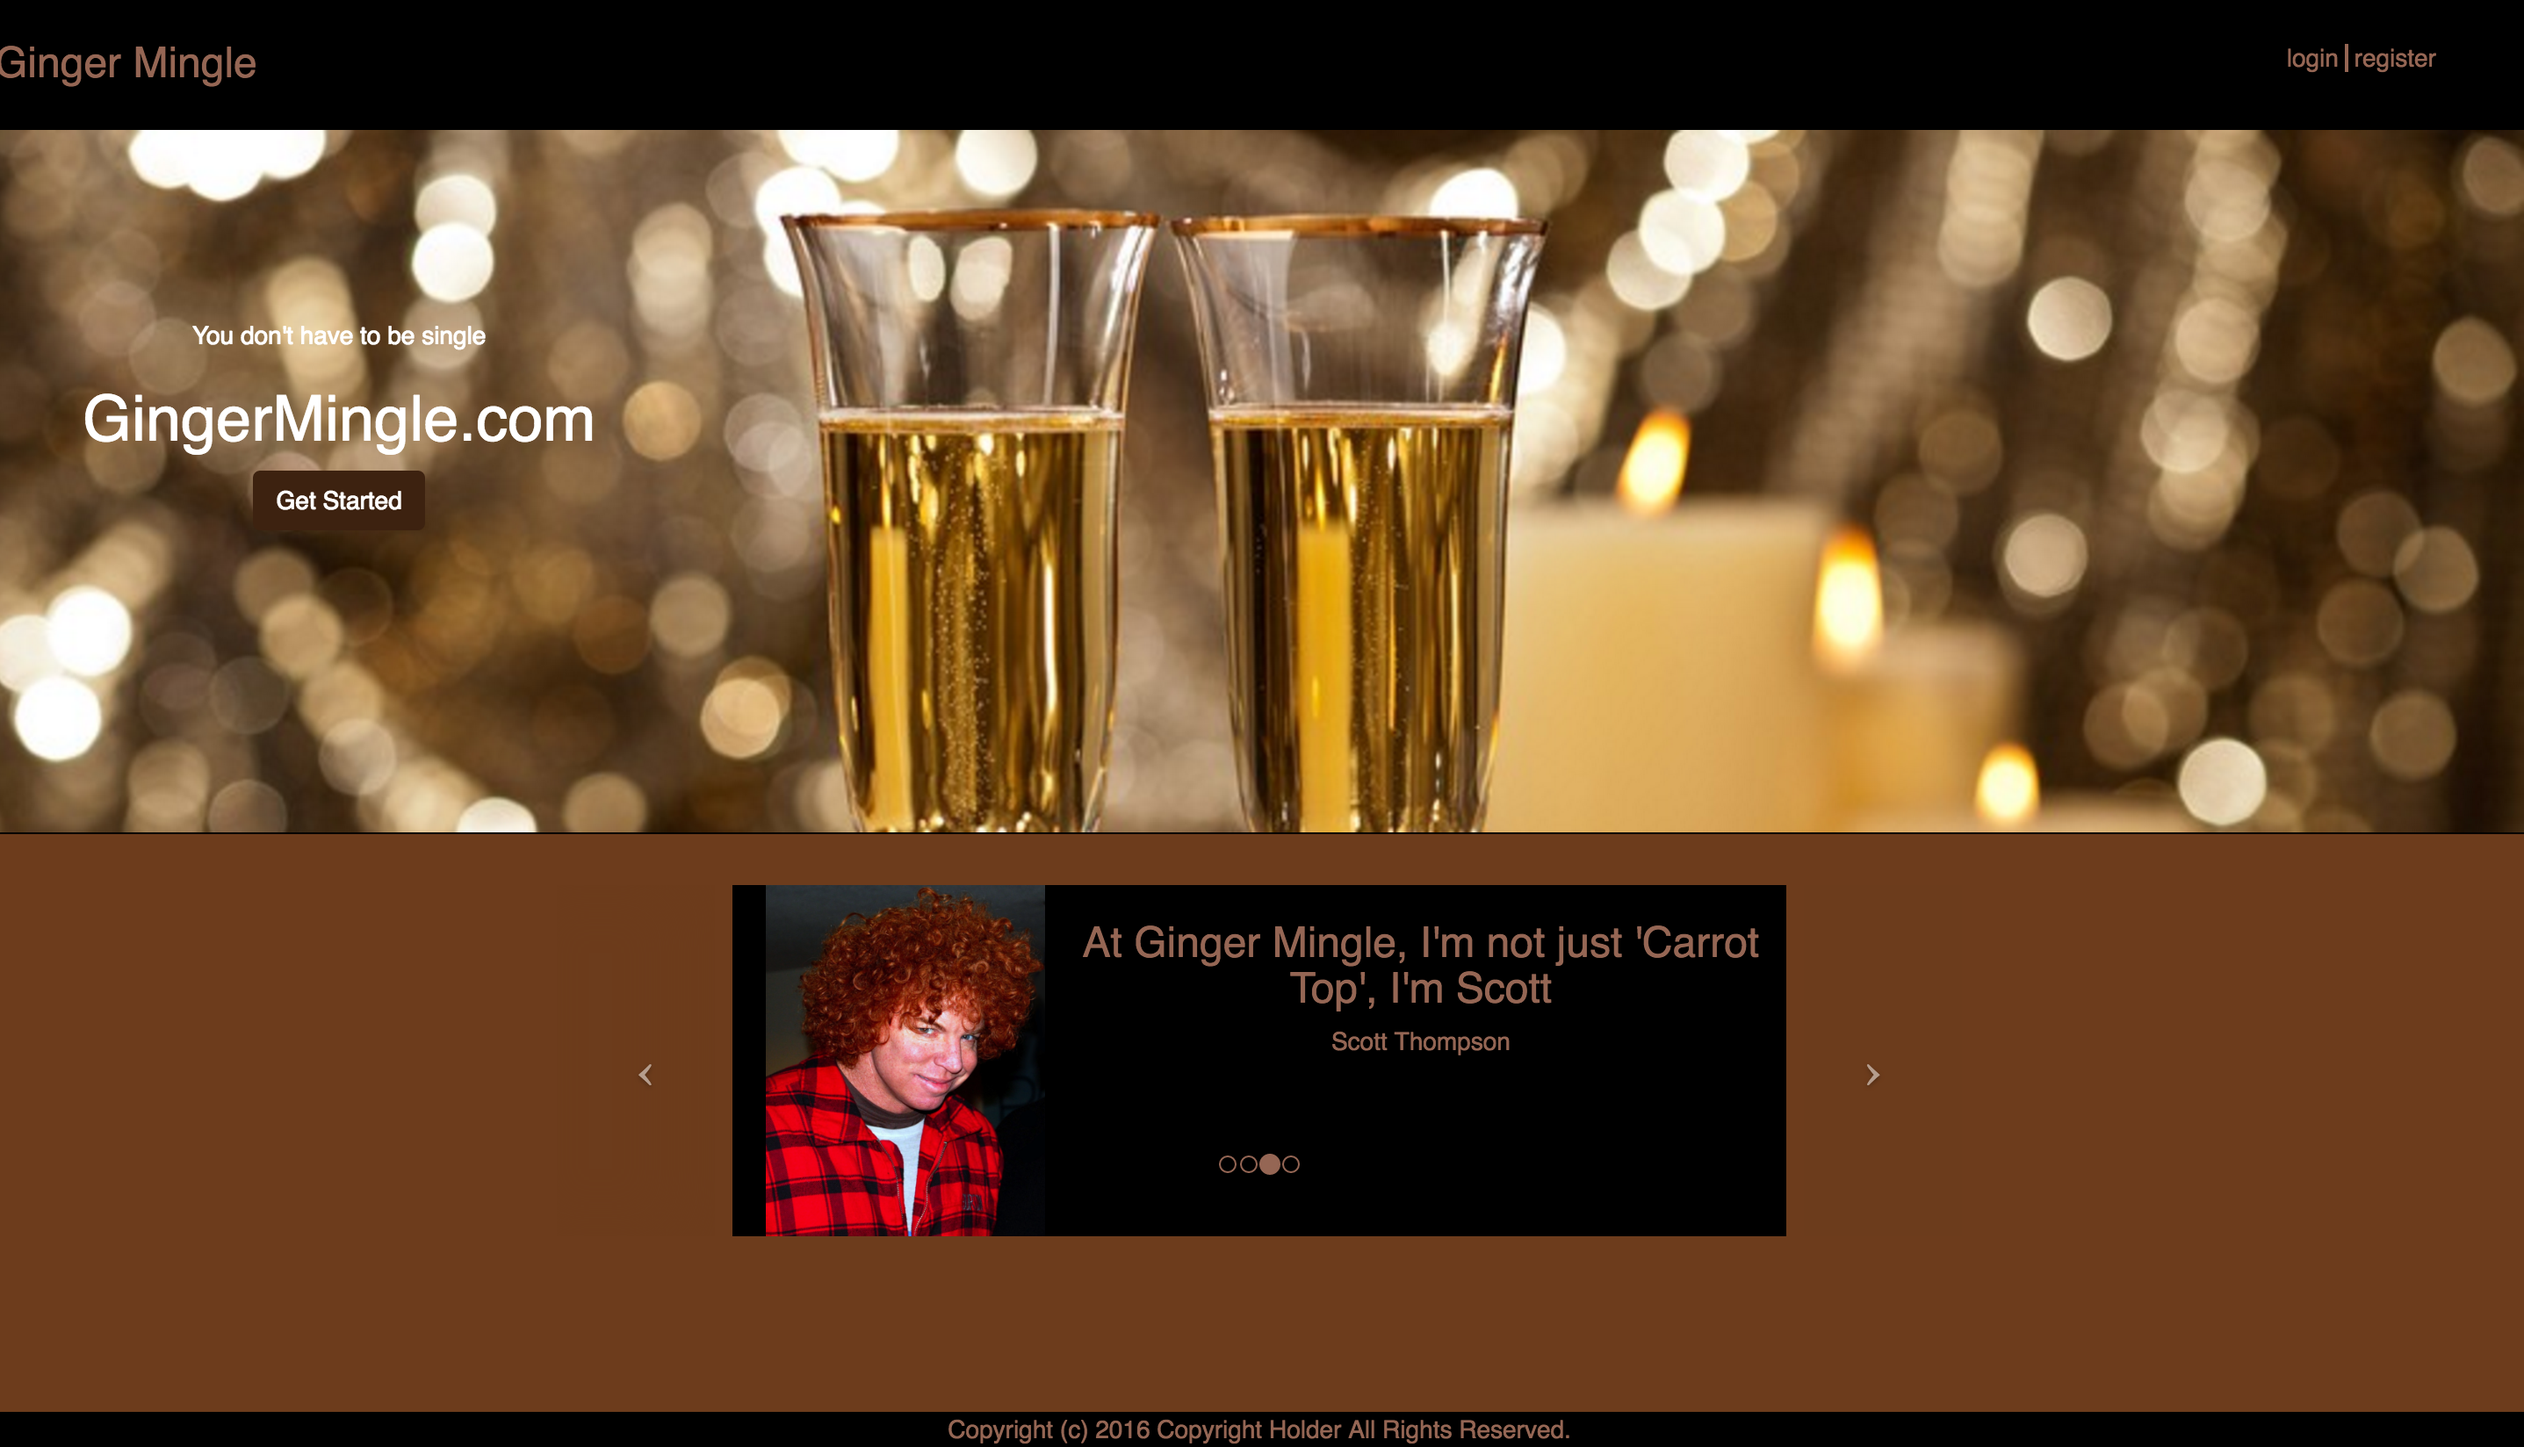
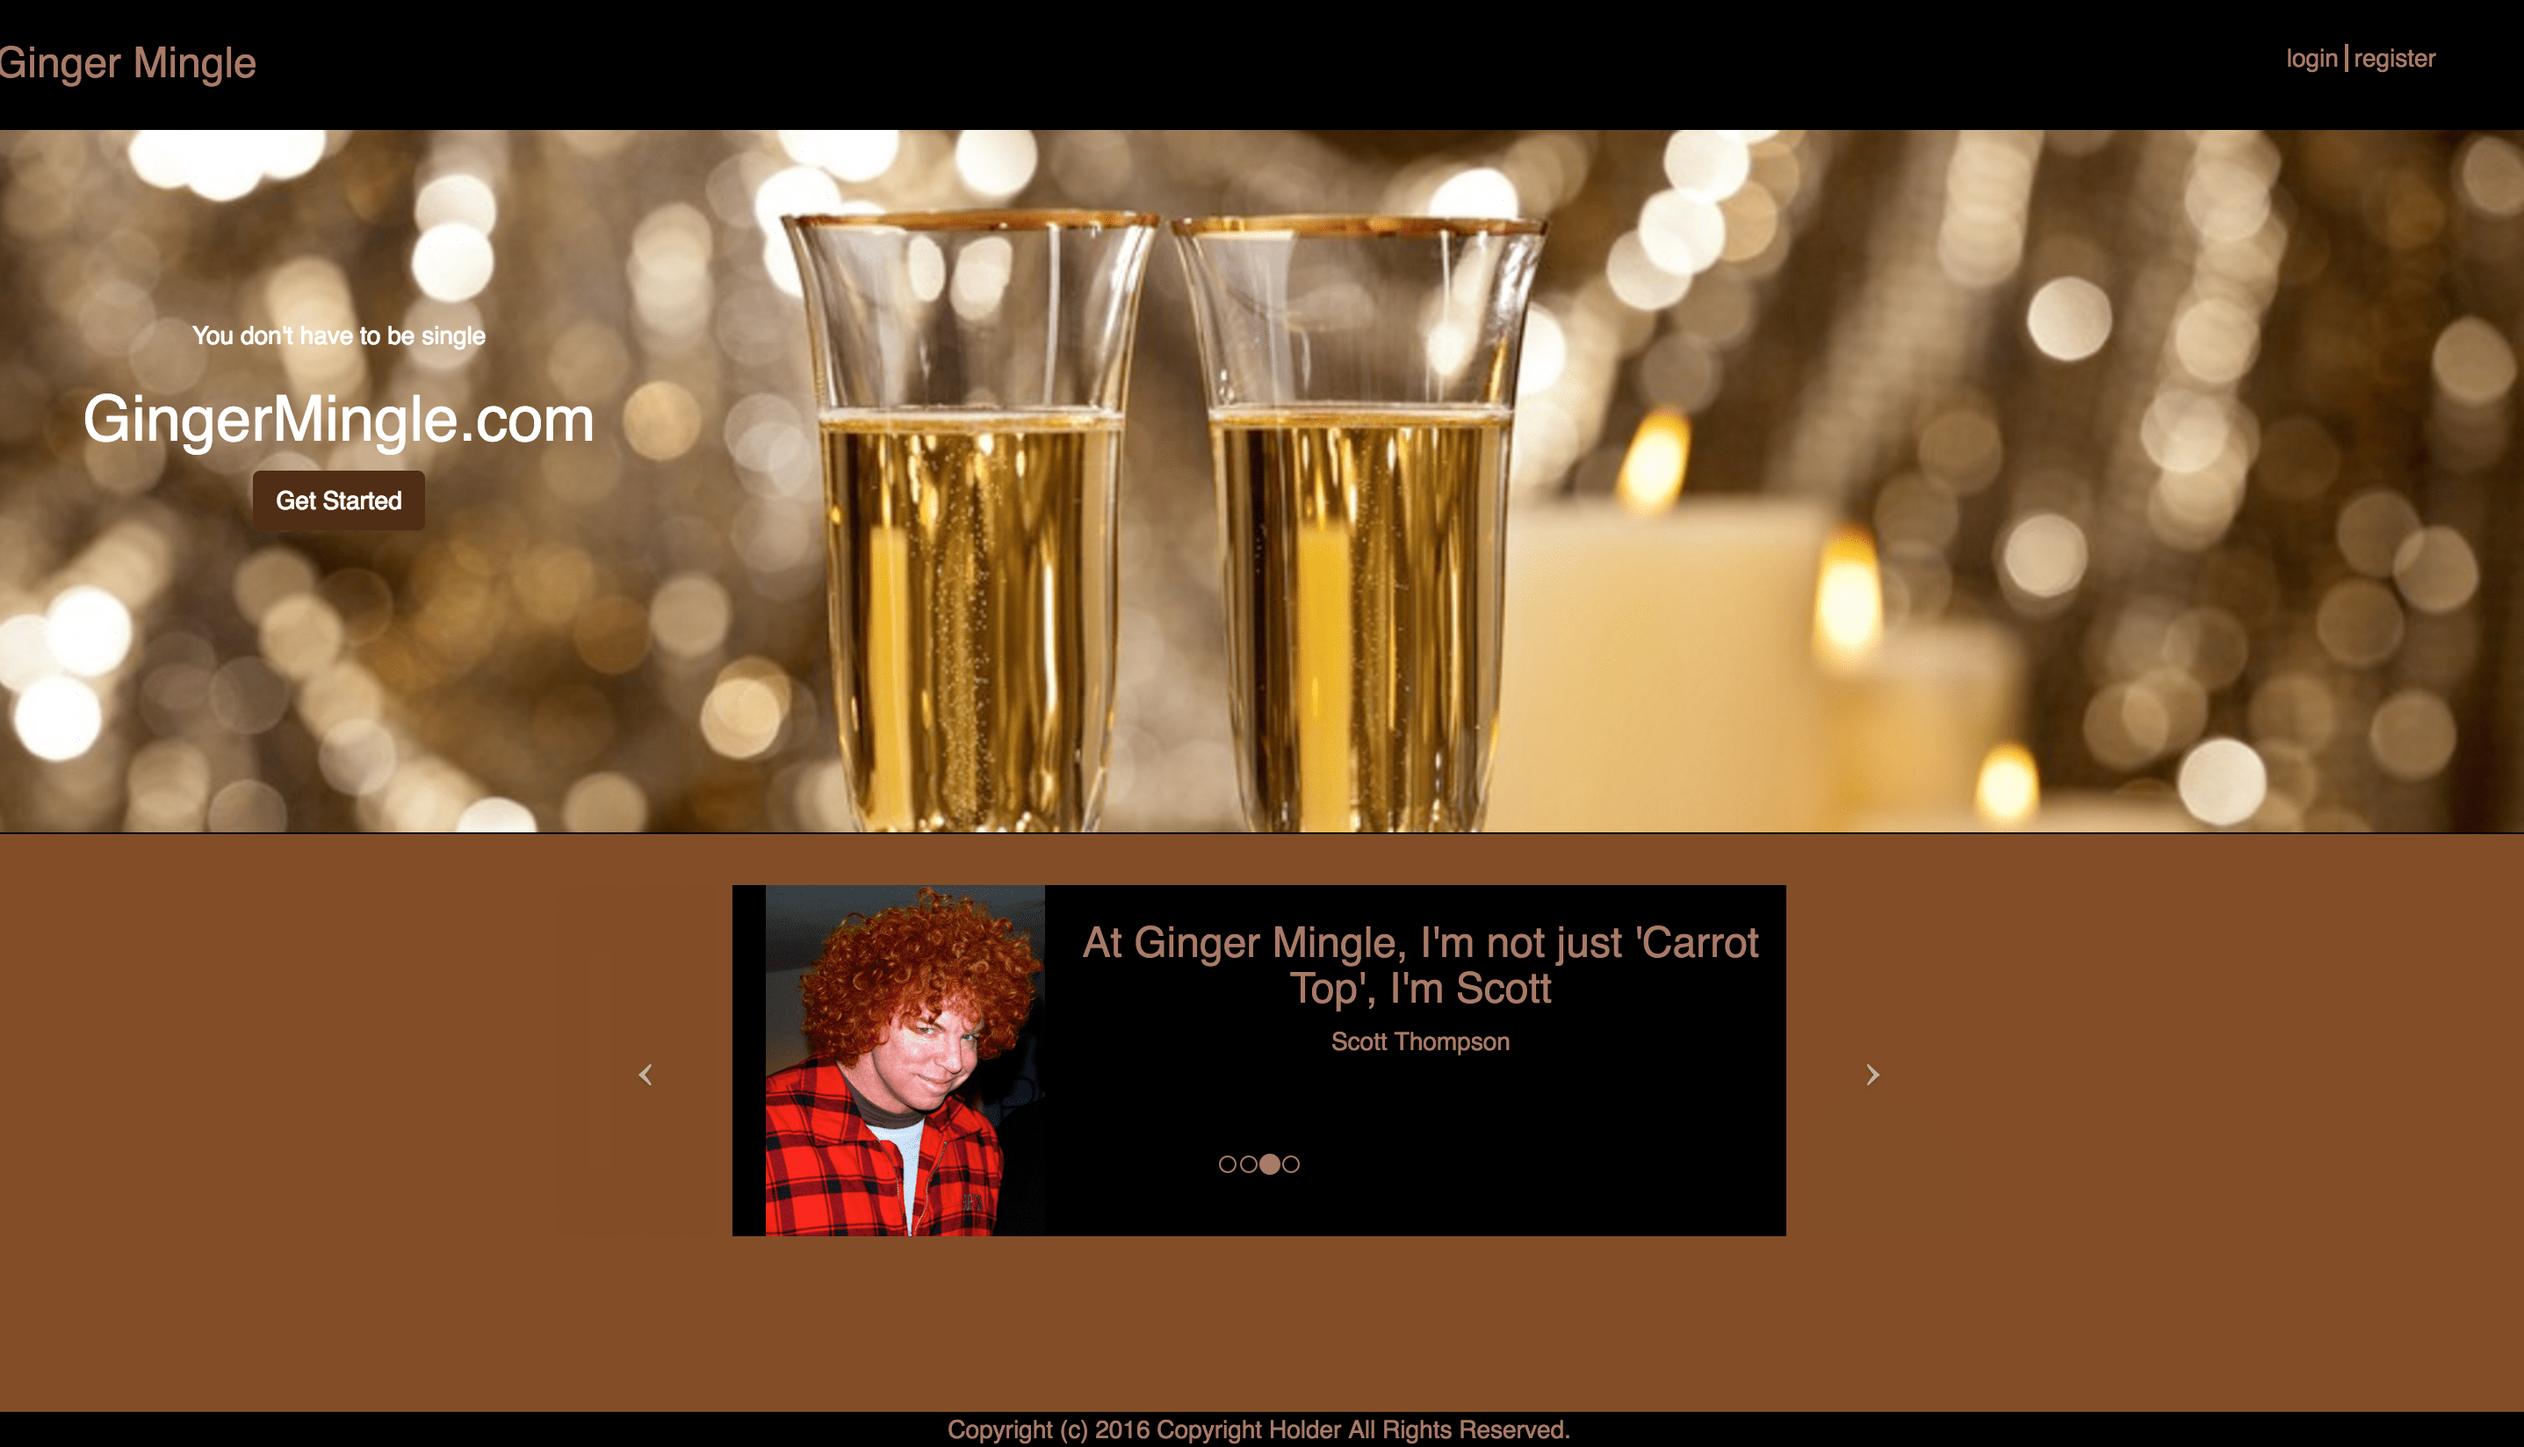
added a some simple features from when portfolio items are clicked on. I also optomized the images and updated the readme.

diff --git a/src/components/Portfolio.js b/src/components/Portfolio.js
@@ -6,38 +6,57 @@ import allAngular from '../imgs/allangular.png'
 import codeRoadTrip from '../imgs/codeRoadTrip.png'
 import gingerMingle from '../imgs/gingerMingle.png'
 import paintedWithFire from '../imgs/paintedWithFire.png'
+import gitUp from '../imgs/gitup.png'
 import Panel from './Panel'
 import './Portfolio.css'
 
 const imgArray=[
   {image: codeRoadTrip,
     title:'Code Road Trip',
-    description:'a group project'
+    description:'A fullstack React app designed as a blog for my roadtrip in the fall of 2016',
+    github: 'https://github.com/eparkhurst/CodeRoadTrip',
+    link: 'https://coderoadtrip.firebaseapp.com/'
   },
   {image: gingerMingle,
     title:'Ginger Mingle',
-    description:'a group project'
+    description:'A fake dating site built in AngularJS',
+    github: 'https://github.com/eparkhurst/GingerMingle',
   },
   {image: paintedWithFire,
     title:'Painted with Fire',
-    description:'a group project'
+    description:'A static site built for the Artist Guild "Painted with Fire"',
+    github: 'https://github.com/eparkhurst/paintedWithFire',
+    link: 'https://paintedwithfire.xyz'
   },
   {image: brewsBrothers,
     title:'Brews Brothers',
-    description:'a group project'
+    description:'A group project which uses a Raspberry Pi to control a refrigerator for beer brewing',
+    github: 'https://github.com/brews-brothers',
+    link: 'https://brewsbrotherschillerfrontend.firebaseapp.com/'
   },
   {image: moviePicker,
     title:'Movie Picker',
-    description:'a group project'
+    description:'A game to pick the imdb rank of movies. This was my first project',
+    github: 'https://github.com/eparkhurst/Movie-Picker',
+    link: 'https://intense-heat-9278.firebaseapp.com/'
   },
   {image: trackPath,
     title:'TrackPath',
-    description:'a group project'
+    description:'An Android native app written in java. The app tracks the users location and displays it on a map',
+    github: 'https://github.com/eparkhurst/Track-Path',
   },
   {image: allAngular,
     title:'All Angular',
-    description:'a group project'
-  }
+    description:'An assortment of AngularJS apps made when I was learning AngularJS',
+    github: 'https://github.com/eparkhurst/allAngular',
+    link: 'https://allangular.firebaseapp.com'
+  },
+  {image: gitUp,
+    title:'Git Up',
+    description:'A group project using Express and Postgres for parents to monitor their childrens activity',
+    github: 'https://github.com/GitAwwwShit',
+    link: 'http://huber007.dyndns.org:3000/'
+  },
 ]
 
 
@@ -50,6 +69,8 @@ class Portfolio extends Component{
           image={e.image}
           title={e.title}
           description={e.description}
+          github={e.github}
+          link={e.link}
           key={i}
         />
       })}

diff --git a/src/components/Panel.js b/src/components/Panel.js
@@ -2,12 +2,38 @@ import React, {Component} from 'react'
 import './Panel.css'
 
 class Panel extends Component{
+  state={
+    className:"expand hidden",
+  }
+  constructor(){
+    super()
+    this.toggle = this.toggle.bind(this)
+  }
+
+  toggle(){
+    if(this.state.className === "expand hidden"){
+      this.setState({className:'expand'})
+    }else{
+      this.setState({className:'expand hidden'})
+    }
+  }
+
   render(){
+    let linkClass = ''
+    if(!this.props.link){
+      linkClass = 'hidden'
+    }
     return <div className="image-panel">
-      <img src={this.props.image} />
-      <div className="image-title">
-        <h3>{this.props.title}</h3>
-        <p>{this.props.description}</p>
+      <div onClick={this.toggle}>
+        <img src={this.props.image} alt='a portfolio piece' />
+        <div className="image-title">
+          <h3>{this.props.title}</h3>
+          <p>{this.props.description}</p>
+        </div>
+      </div>
+      <div className={this.state.className}>
+        <a href={this.props.link} className={linkClass}><i className="fa fa-link"></i>  Visit the Site</a>
+        <a href={this.props.github}><i className="fa fa-github-square"></i>  See the Code on Github</a>
       </div>
     </div>
   }

diff --git a/src/components/About.js b/src/components/About.js
@@ -7,9 +7,9 @@ class About extends Component{
     return <div className="about">
       <h1 className="about-title">About</h1>
       <div className="about-panel">
-        <img className="head-shot" src={headShot}/>
+        <img className="head-shot" src={headShot} alt="a handsome head shot of Elijah Parkhurst"/>
         <p>
-          I am a fullstack web developer living in Denver Colorado. In September 2015 I quit the world of anyalytical chemistry and vowed to never use Windows ME again. After several months of tinkering and 6 months in a fullstack immersion program at Galvanize I can now call myself a developer. From creating RESTful APIs to sprucing up the look of a site, I like it all.
+          I’m a Colorado kid doing my best to grow along with Denver. Professionally, I am a full stack developer with an emphasis on the front end. I dream in React but AngularJS and I still have a good relationship. Don’t put me in a box though. I’ve made RESTful APIs, native mobile apps and know my way around an ERD. If I look like a good fit for your team my contact info is on this very page!
         </p>
       </div>
       <div className="about-panel">

diff --git a/src/components/Panel.css b/src/components/Panel.css
@@ -1,3 +1,5 @@
+
+
 .image-panel {
   width:350px;
   margin: 20px;
@@ -6,31 +8,49 @@
   text-align: left;
   margin: 25px auto;
   background-color: white;
+  vertical-align: top;
 }
 .image-panel:hover {
   box-shadow: 0 14px 28px rgba(0,0,0,0.25), 0 10px 10px rgba(0,0,0,0.22);
   cursor: pointer;
 }
+
 .image-panel img{
   width:350px;
   height:200px;
   overflow: hidden;
   object-fit: cover;
 }
+
 .image-title{
   padding: 15px;
 }
+
 .image-title h3{
   font-family: 'Merriweather', serif;
   font-weight: 300;
   color: #323232;
   margin: 0;
 }
+
 .image-title p{
-  font-family: 'Open Sans';
+  font-family: 'Open Sans', sans-serif;
   color: #7e7e7e;
   margin: 0;
   font-size: 14px;
+  height: 60px;
+}
+
+.expand a{
+  display: block;
+  font-family: 'Open Sans', sans-serif;
+  color: #7e7e7e;
+  padding: 10px;
+  border-top: 1px solid  #323232;
+  text-decoration: none;
+}
+.expand a:hover{
+  background-color:  #f2f1ef;
 }
 
 @media (min-width:800px){
@@ -47,4 +67,7 @@
   .image-panel img{
     width: 300px;
   }
+}
+.expand a.hidden{
+  display: none;
 }

diff --git a/public/index.html b/public/index.html
@@ -1,13 +1,18 @@
 <!doctype html>
 <html lang="en">
-<!-- This site was built from scratch. I used React but didn't use any css libraries -->
+<!-- Thank You for Checking out my portfolio site -->
+<!-- This site was built with React.
+ If you would like to see the uncompiled code please go to
+ https://github.com/eparkhurst/ReactPortfolio-->
+<!-- The site was built with material design in mind. I didn't use any CSS libraries-->
+<!-- Enjoy! -->
   <head>
     <meta charset="utf-8">
     <meta name="viewport" content="width=device-width, initial-scale=1">
     <link rel="shortcut icon" href="%PUBLIC_URL%/favicon.ico">
     <link rel="stylesheet" href="https://maxcdn.bootstrapcdn.com/font-awesome/4.4.0/css/font-awesome.min.css">
     <link href="https://fonts.googleapis.com/css?family=Merriweather:300,400|Open+Sans:300,400" rel="stylesheet">
-    <title>React App</title>
+    <title>Elijah Parkhurst</title>
   </head>
   <body>
     <div id="root"></div>

diff --git a/src/App.js b/src/App.js
@@ -25,9 +25,16 @@ class App extends Component {
       <div className="App">
         <div className="App-header">
           <h1 className="eliHeader">Elijah Parkhurst</h1>
-          <span onClick={this.toggleDropdown} className="hamburger-icon" ><img src="hamburger.png" /> </span>
+          <span
+            onClick={this.toggleDropdown}
+            className="hamburger-icon" >
+            <img src="hamburger.png" alt="hamburger icon" />
+          </span>
           <div className={coverClass} onClick={this.toggleDropdown}></div>
-          <Dropdown className={this.state.className} toggle={this.toggleDropdown}/>
+          <Dropdown
+            className={this.state.className}
+            toggle={this.toggleDropdown}
+          />
           <nav>
             <Link to="/about" className="headerBtn">About</Link>
             <Link to="/portfolio" className="headerBtn">Portfolio</Link>

diff --git a/src/index.js b/src/index.js
@@ -3,11 +3,11 @@ import ReactDOM from 'react-dom';
 import App from './App';
 import About from './components/About';
 import Portfolio from './components/Portfolio';
-import { Router, Route, browserHistory, IndexRedirect} from 'react-router';
+import { Router, Route, hashHistory, IndexRedirect} from 'react-router';
 import './index.css';
 
 ReactDOM.render(
-  <Router history={browserHistory}>
+  <Router history={hashHistory}>
     <Route path="/" component={App}>
       <IndexRedirect to="/about" />
       <Route path="about" component={About} />

diff --git a/src/components/Dropdown.js b/src/components/Dropdown.js
@@ -15,7 +15,6 @@ class Dropdown extends Component {
     return <div className={currentClass} onClick={this.toggle}>
       <Link to="/about" className="dropdownBtn">About</Link>
       <Link to="/portfolio" className="dropdownBtn">Portfolio</Link>
-      <Link to="/portfolio" className="dropdownBtn">Conway's Game</Link>
     </div>
   }
 }

diff --git a/README.md b/README.md
@@ -1,1 +1,6 @@
 # New Portfolio Site using React
+
+I was recently turned down for a job because my portfolio site didn't look the same in safari.
+Well Fuck those guys my site looks great now. I went for a material design and kept it simple.
+I used React and wrote all the CSS from scratch. And yes, it looks exactly the same in Firefox
+and Safari as it does in chrome. 
